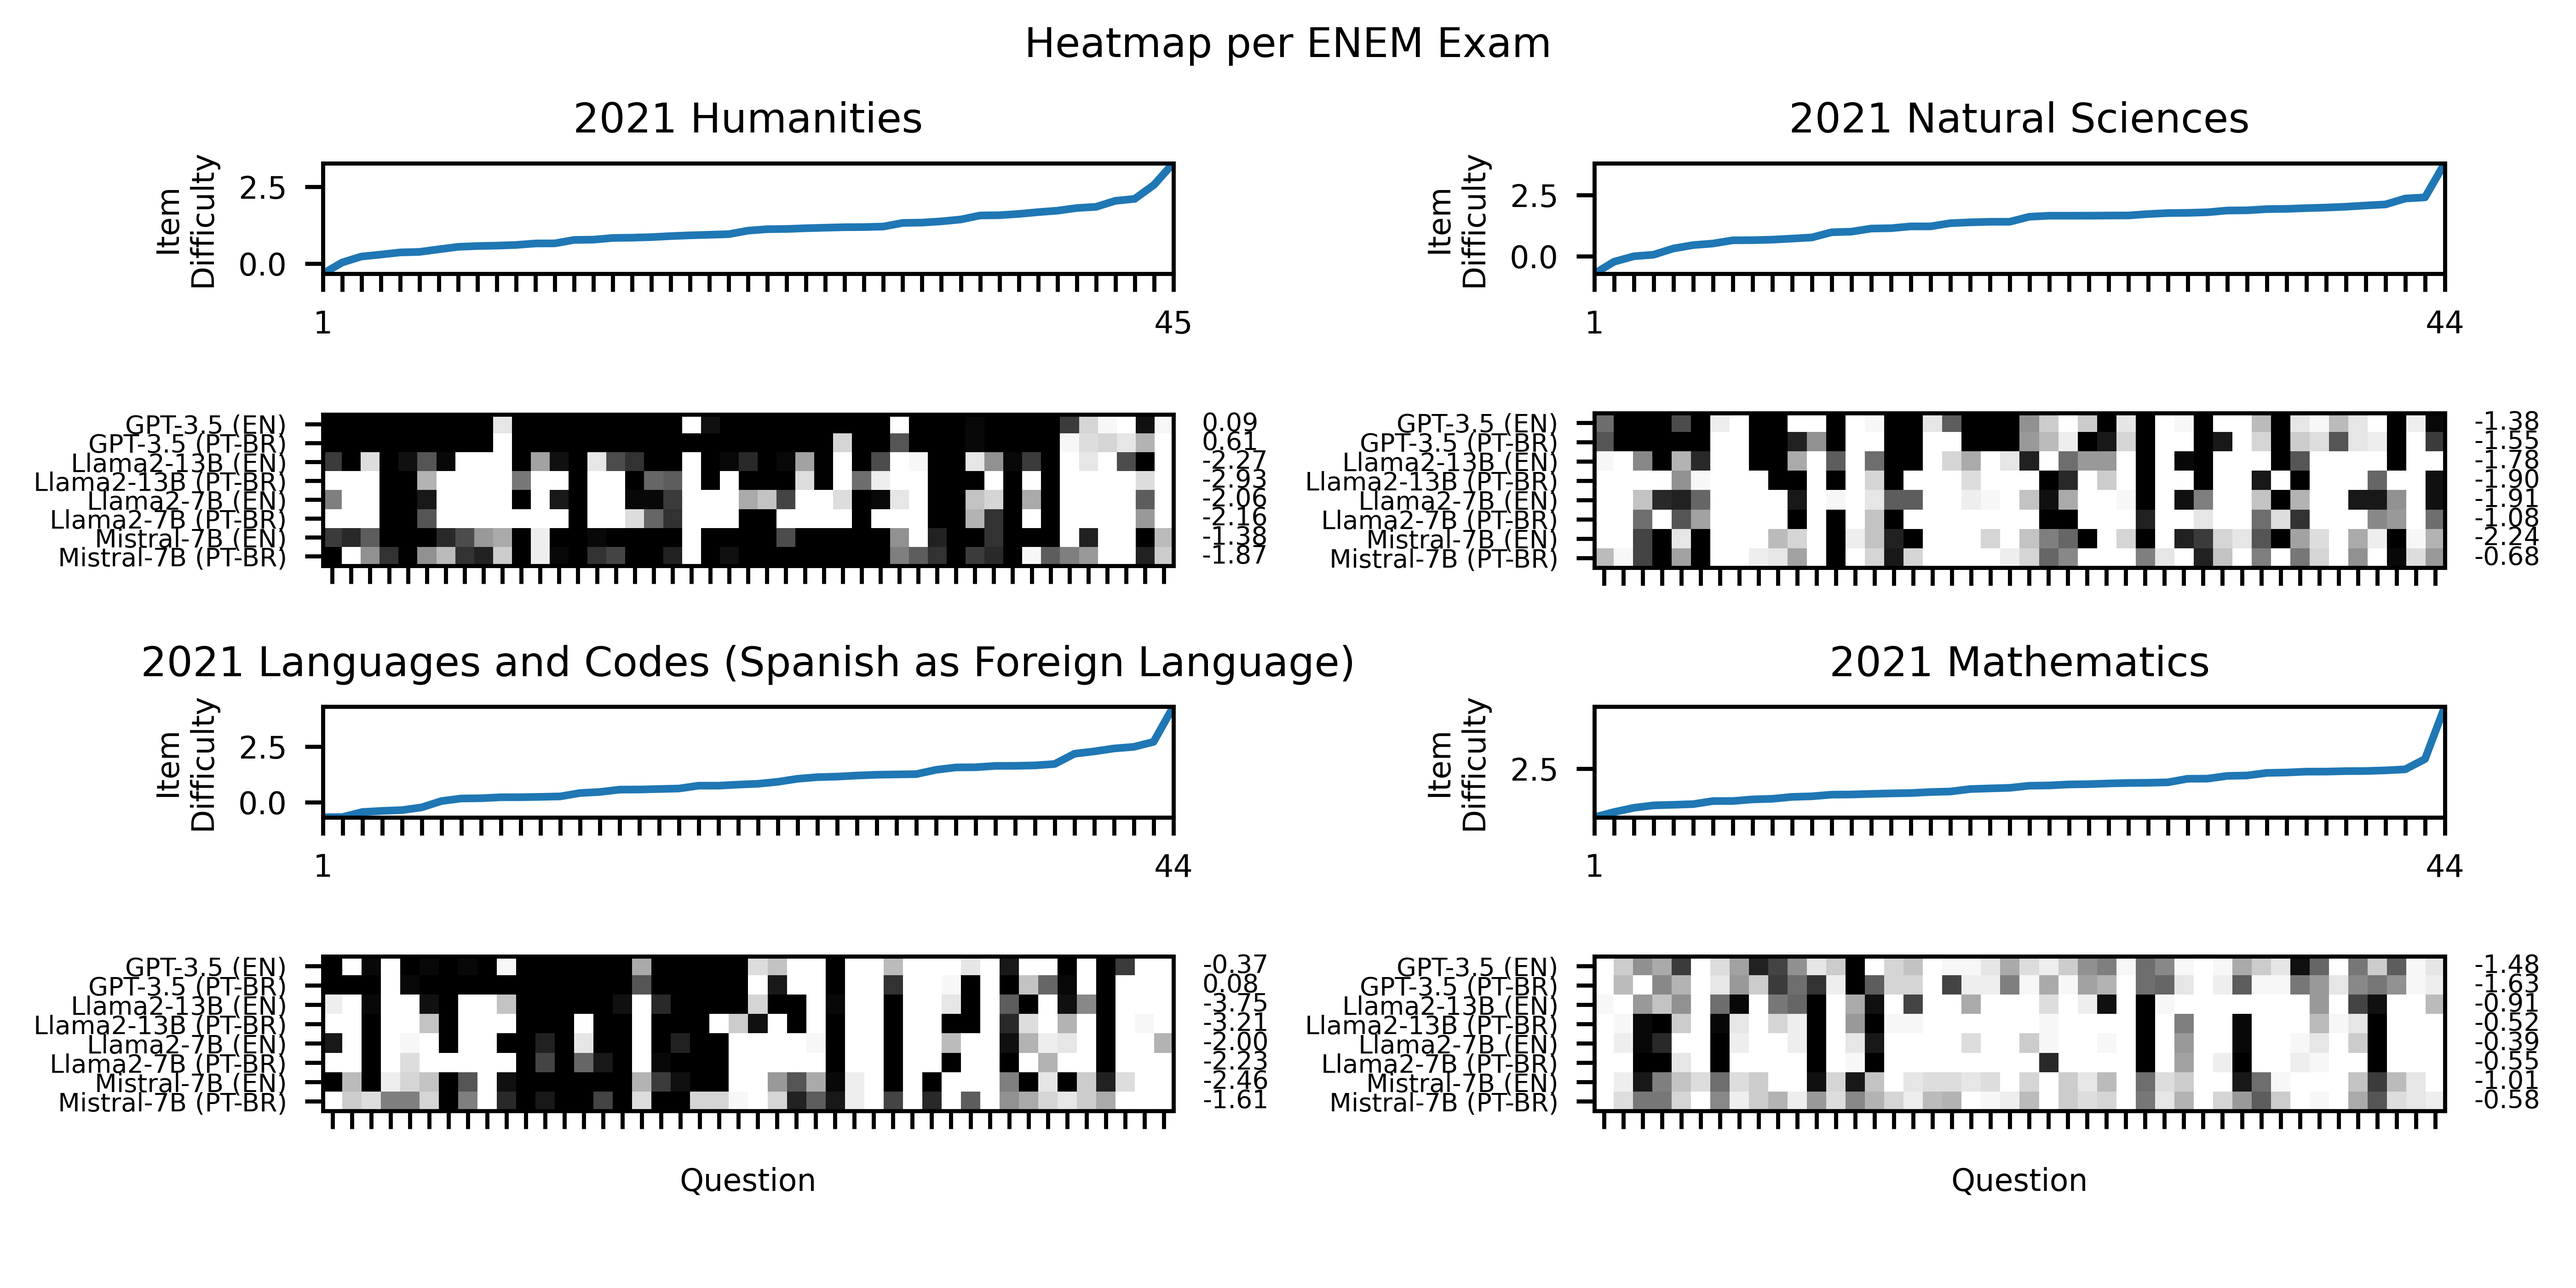
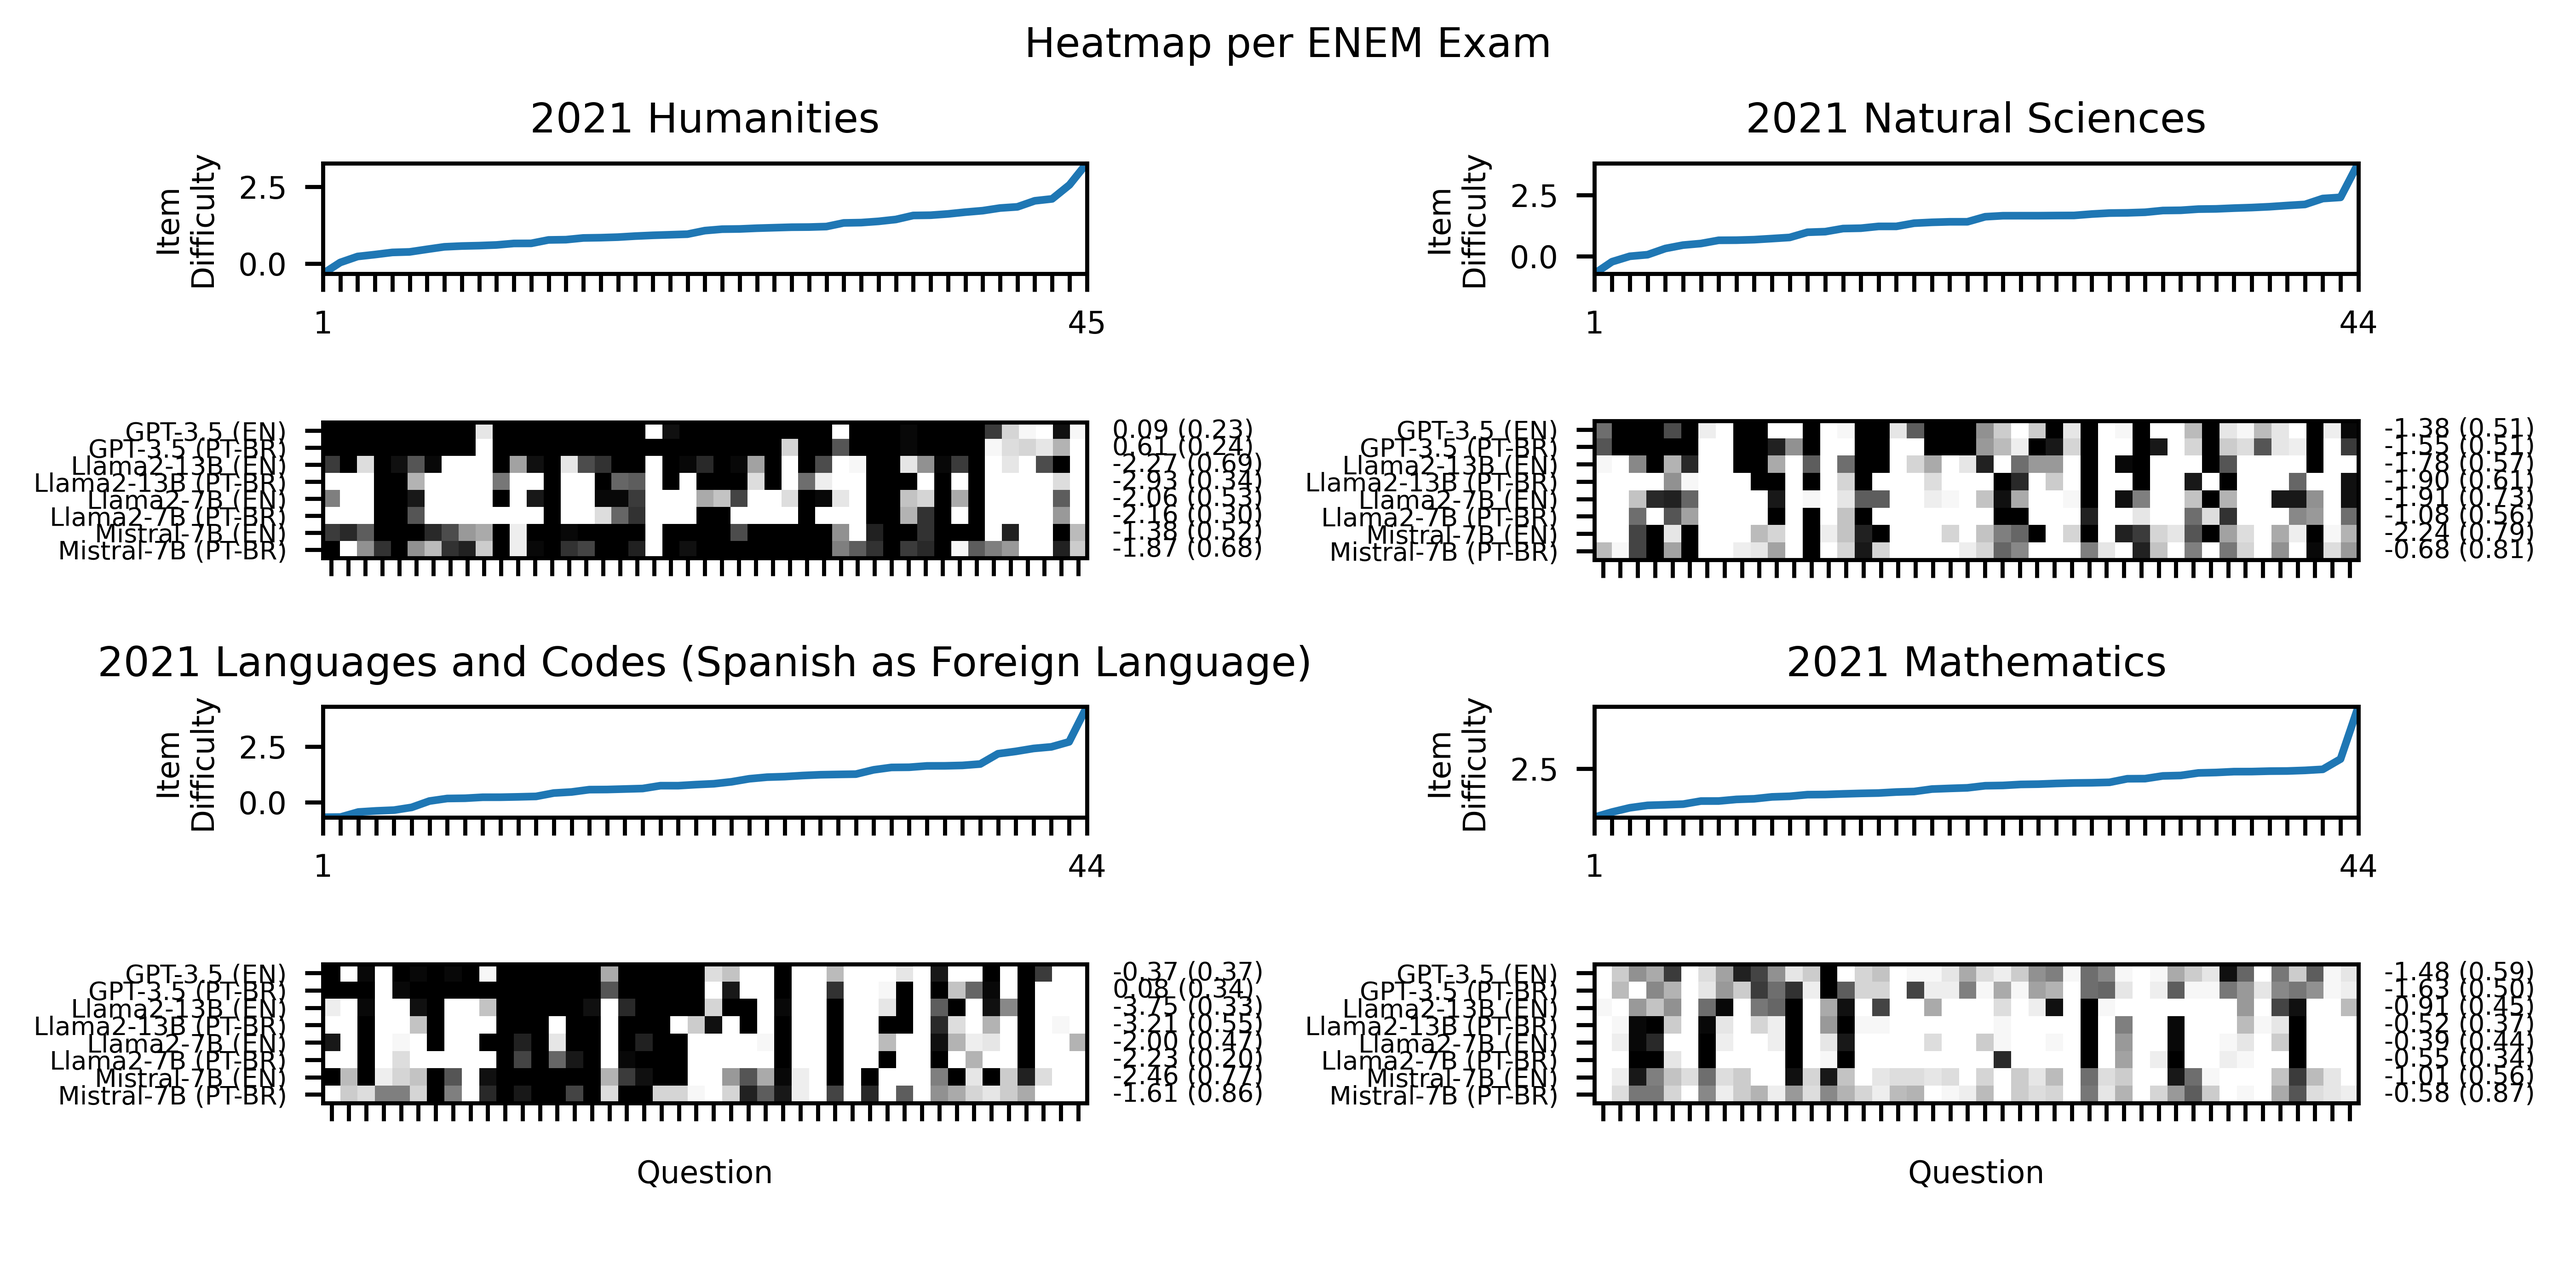
Heatmaps with lz std

diff --git a/heatmap_plot.py b/heatmap_plot.py
@@ -57,6 +57,7 @@ for i, enem_exam in enumerate(df.ENEM_EXAM.unique()):
     sample_df["CO_PROVA"] = sample_df["CO_PROVA"].astype(int)
     matrix_response_pattern = []
     avg_lz_scores = []
+    std_lz_scores = []
     idx_name = []
     exam = df_items[df_items.CO_PROVA == sample_df.iloc[0, :].CO_PROVA]
     # Remove english as foreign language questions
@@ -70,6 +71,8 @@ for i, enem_exam in enumerate(df.ENEM_EXAM.unique()):
             sample_df_model = sample_df[(sample_df.FULL_MODEL == full_model) & (sample_df.LANGUAGE == language)]
             avg_lz = sample_df_model.LZ_SCORE.mean()
             avg_lz_scores.append(avg_lz)
+            std_lz = sample_df_model.LZ_SCORE.std()
+            std_lz_scores.append(std_lz)
             response_pattern_matrix = np.array(list(sample_df_model.RESPONSE_PATTERN.apply(lambda x: list(x))))
             # Convert each response pattern to a list of integers
             response_pattern_matrix = response_pattern_matrix.astype(int)
@@ -106,8 +109,8 @@ for i, enem_exam in enumerate(df.ENEM_EXAM.unique()):
     axes[3, i % 2].set_xlabel("Question", fontsize=6)
 
     # Add the average lz scores as text in the end of each row of the heatmap
-    for j, avg_lz in enumerate(avg_lz_scores):
-        axes[1 if i < 2 else 3, i % 2].text(n_questions+1, j, f"{avg_lz:.2f}", fontsize=5, va="center")
+    for j, (avg_lz, std_lz) in enumerate(zip(avg_lz_scores, std_lz_scores)):
+        axes[1 if i < 2 else 3, i % 2].text(n_questions+1, j, f"{avg_lz:.2f} ({std_lz:.2f})", fontsize=5, va="center")
 
     axes[0 if i < 2 else 2, i % 2].plot(range(1, n_questions+1), exam.NU_PARAM_B.values, "-")
     axes[0 if i < 2 else 2, i % 2].set_title(enem_exam, fontsize=8)
